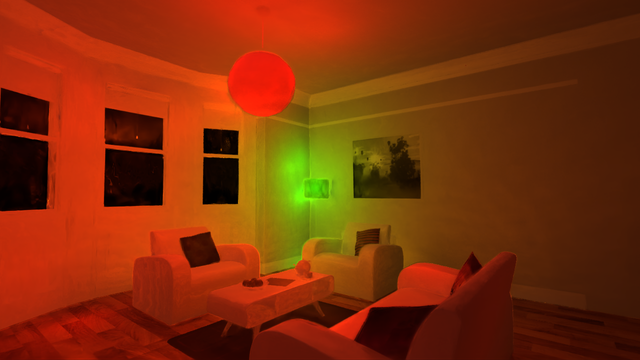
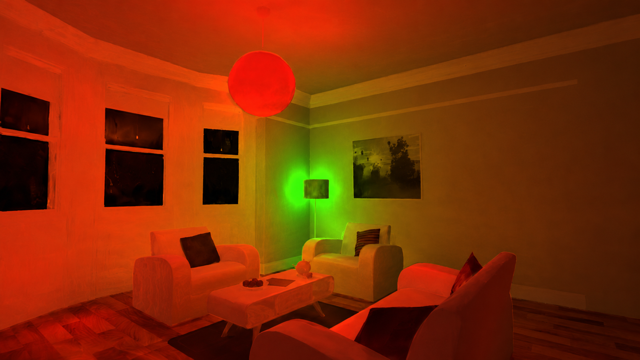
update few project assets

diff --git a/projects/aegir/index.html b/projects/aegir/index.html
@@ -30,7 +30,7 @@
           <a class="author-link" href="https://graphics.cs.uni-tuebingen.de/team/person?name=Hendrik%20Lensch" target="_blank" rel="noopener">Hendrik Lensch</a>
         </p>
         <p class="paper-affiliations">
-          <i class="fas fa-university" aria-hidden="true"></i> Computer Graphics Group, Eberhard Karls University of T&uuml;bingen
+          <i class="fas fa-university" aria-hidden="true"></i> University of T&uuml;bingen
         </p>
         <p class="paper-venue"><i class="fas fa-award" aria-hidden="true"></i> arXiv preprint, 2026</p>
         <div class="paper-links">